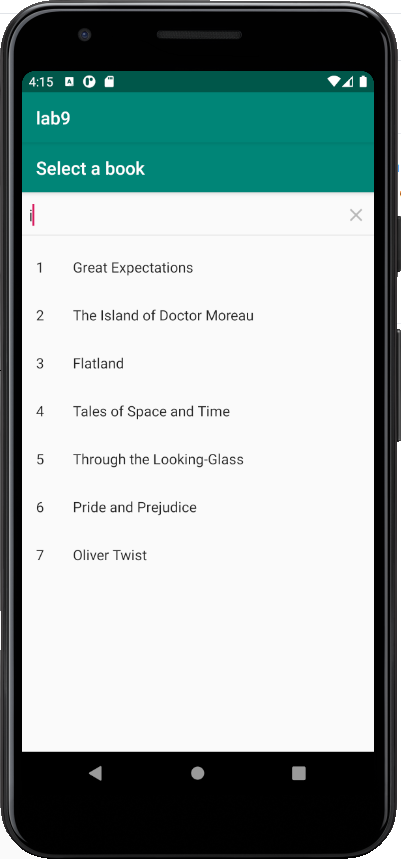
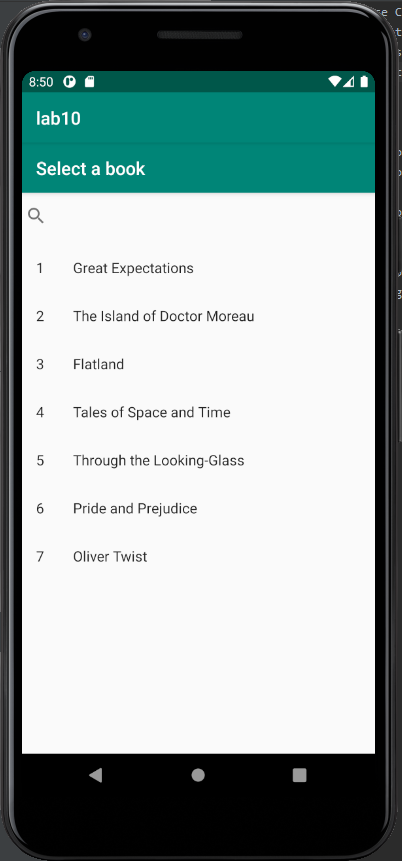
fixed cached file playback

diff --git a/app/src/main/java/edu/temple/lab10/ItemListActivity.java b/app/src/main/java/edu/temple/lab10/ItemListActivity.java
@@ -1,5 +1,6 @@
 package edu.temple.lab10;
 
+import android.app.Activity;
 import android.content.Context;
 import android.content.Intent;
 import android.os.Bundle;
@@ -59,6 +60,30 @@ public class ItemListActivity extends AppCompatActivity {
     int currentProgress;
     String cacheFilename = ".ProgressCache";
 
+    public int getPlaying() {
+        JSONObject cache = importProgressCache();
+        try {
+            return cache.getInt("nowPlaying");
+        } catch (JSONException e) {
+            e.printStackTrace();
+            return -1;
+        }
+    }
+
+    @Override
+    protected void onStart() {
+        super.onStart();
+        if(isPlaying()) {
+            //Launch intent to detail activity
+            Intent intent = new Intent(ItemListActivity.this, ItemDetailActivity.class);
+            //assert(getPlaying() == 1);
+            intent.putExtra(ControlFragment.ARG_ITEM_ID,String.valueOf(getPlaying()));
+            //intent.addFlags(Intent.FLAG_ACTIVITY_NEW_TASK);
+            //startActivity(intent);
+
+        }
+    }
+
     @Override
     protected void onCreate(Bundle savedInstanceState) {
         super.onCreate(savedInstanceState);
@@ -66,7 +91,6 @@ public class ItemListActivity extends AppCompatActivity {
 
         sv = findViewById(R.id.search);
 
-        Intent resume = getIntent();
 
         try {
             token = importProgressCache().getString("lastSearch");
@@ -79,6 +103,8 @@ public class ItemListActivity extends AppCompatActivity {
             sv.setActivated(true);
             searchAPI(token);
         }
+
+        searchAPI(token);
 
         Toolbar toolbar = (Toolbar) findViewById(R.id.toolbar);
         //setSupportActionBar(toolbar);
@@ -112,6 +138,18 @@ public class ItemListActivity extends AppCompatActivity {
 
         //searchAPI("");
 
+    }
+
+    public boolean isPlaying() {
+        JSONObject cache = importProgressCache();
+        boolean stopped = false;
+        try {
+            stopped = cache.getBoolean("isStopped");
+            return !stopped;
+        } catch (JSONException e) {
+            e.printStackTrace();
+            return false;
+        }
     }
 
     public JSONObject importProgressCache() {
@@ -191,6 +229,25 @@ public class ItemListActivity extends AppCompatActivity {
         recyclerView.setAdapter(new SimpleItemRecyclerViewAdapter(this, bookList, mTwoPane));
     }
 
+    public static void launchDetailFragment(View view, ItemListActivity activity,boolean mTwoPane) {
+        BookList.Book item = (BookList.Book) view.getTag();
+        if (mTwoPane) {
+            Bundle arguments = new Bundle();
+            arguments.putString(ControlFragment.ARG_ITEM_ID, String.valueOf(item.id));
+            ControlFragment fragment = new ControlFragment();
+            fragment.setArguments(arguments);
+            activity.getSupportFragmentManager().beginTransaction()
+                    .replace(R.id.item_detail_container, fragment)
+                    .commit();
+        } else {
+            Context context = view.getContext();
+            Intent intent = new Intent(context, ItemDetailActivity.class);
+            intent.putExtra(ControlFragment.ARG_ITEM_ID, item.id);
+
+            context.startActivity(intent);
+        }
+    }
+
     public static class SimpleItemRecyclerViewAdapter
             extends RecyclerView.Adapter<SimpleItemRecyclerViewAdapter.ViewHolder> {
 
@@ -200,22 +257,7 @@ public class ItemListActivity extends AppCompatActivity {
         private final View.OnClickListener mOnClickListener = new View.OnClickListener() {
             @Override
             public void onClick(View view) {
-                BookList.Book item = (BookList.Book) view.getTag();
-                if (mTwoPane) {
-                    Bundle arguments = new Bundle();
-                    arguments.putString(ControlFragment.ARG_ITEM_ID, String.valueOf(item.id));
-                    ControlFragment fragment = new ControlFragment();
-                    fragment.setArguments(arguments);
-                    mParentActivity.getSupportFragmentManager().beginTransaction()
-                            .replace(R.id.item_detail_container, fragment)
-                            .commit();
-                } else {
-                    Context context = view.getContext();
-                    Intent intent = new Intent(context, ItemDetailActivity.class);
-                    intent.putExtra(ControlFragment.ARG_ITEM_ID, item.id);
-
-                    context.startActivity(intent);
-                }
+                launchDetailFragment(view,mParentActivity,mTwoPane);
             }
         };
 

diff --git a/app/src/main/java/edu/temple/lab10/ControlFragment.java b/app/src/main/java/edu/temple/lab10/ControlFragment.java
@@ -253,7 +253,7 @@ public class ControlFragment extends Fragment {
             }
         }
         writeProgressCache();
-        Toast.makeText(getActivity(),progressCache.toString(), Toast.LENGTH_LONG).show();
+        //Toast.makeText(getActivity(),progressCache.toString(), Toast.LENGTH_LONG).show();
     }
 
     public int getProgress(String id) {
@@ -270,7 +270,7 @@ public class ControlFragment extends Fragment {
         try {
             progress = thisBook.getInt("progress");
         } catch (JSONException e) {
-            Toast.makeText(getActivity(),"Progress for book "+id+" not found", Toast.LENGTH_SHORT).show();
+            //Toast.makeText(getActivity(),"Progress for book "+id+" not found", Toast.LENGTH_SHORT).show();
         }
         return progress;
     }
@@ -312,6 +312,8 @@ public class ControlFragment extends Fragment {
             // Load the dummy content specified by the fragment
             // arguments. In a real-world scenario, use a Loader
             // to load content from a content provider.
+            assert(BookList.ITEM_MAP.size() > 0);
+            System.out.println(BookList.ITEM_MAP.size());
             mItem = BookList.ITEM_MAP.get(getArguments().getString(ARG_ITEM_ID));
             Activity activity = this.getActivity();
             CollapsingToolbarLayout appBarLayout = (CollapsingToolbarLayout) activity.findViewById(R.id.toolbar_layout);
@@ -320,8 +322,6 @@ public class ControlFragment extends Fragment {
             }
         }
     }
-
-
 
     @Override
     public View onCreateView(LayoutInflater inflater, ViewGroup container,
@@ -431,6 +431,7 @@ public class ControlFragment extends Fragment {
         playButton.setOnClickListener(new View.OnClickListener() {
             public void onClick(View v) {
                 String id = mItem.id;
+                setStopped(false);
                 nowPlayingID = Integer.valueOf(id);
                 setPlaying(Integer.valueOf(id));
 
@@ -440,7 +441,7 @@ public class ControlFragment extends Fragment {
                     Toast.makeText(getActivity(),"Streaming book", Toast.LENGTH_SHORT).show();
                 } else {
                     File file = new File(getContext().getFilesDir(), id+".mp3");
-                    player.play(file);
+                    player.play(file,(-10)+(int)(seeker.getProgress()*(mItem.duration/(float)100)));
                     //player.seekTo((int)(seeker.getProgress()*(mItem.duration/(float)100)));
                     //player.play(file);
                     Toast.makeText(getActivity(),"Playing book from file", Toast.LENGTH_SHORT).show();
@@ -458,6 +459,8 @@ public class ControlFragment extends Fragment {
             public void onClick(View v) {
                 player.stop();
                 seeker.setProgress(0);
+                setStopped(true);
+
             }
         });
 
@@ -467,6 +470,28 @@ public class ControlFragment extends Fragment {
         }
 
         return rootView;
+    }
+
+    public void setStopped(boolean stopped) {
+       importProgressCache();
+        try {
+            progressCache.put("isStopped",stopped);
+        } catch (JSONException e) {
+            e.printStackTrace();
+        }
+        writeProgressCache();
+    }
+
+    public boolean isPlaying() {
+        importProgressCache();
+        boolean stopped = false;
+        try {
+            stopped = progressCache.getBoolean("isStopped");
+            return stopped;
+        } catch (JSONException e) {
+            e.printStackTrace();
+            return false;
+        }
     }
 
     @Override

diff --git a/app/src/main/java/edu/temple/lab10/BookList.java b/app/src/main/java/edu/temple/lab10/BookList.java
@@ -24,7 +24,7 @@ public class BookList {
 
     public static final List<Book>        ITEMS = new ArrayList<Book>();
     public static final Map<String, Book> ITEM_MAP = new HashMap<String, Book>();
-
+    public static boolean created = false;
 
     private static final int SIZE = 25;
     JSONArray books;
@@ -56,11 +56,13 @@ public class BookList {
                 System.out.println("Error reading book json");
             }
         }
+        created=true;
         return bookArray;
     }
 
     public static ArrayList<Book> search(String token) {
         ArrayList<Book> books = new ArrayList<Book>();
+        if(token.equals("")) return (ArrayList<Book>) ITEMS;
         for(int i = 0;i<25;i++) {
             boolean matching = true;
             for(int j=0;j<token.length();j++) {

diff --git a/README.md b/README.md
@@ -1,15 +1,20 @@
-# Lab 9: Audiobook Service
-This project is built on what we did in Lab 8.  This is a library app that allows users to select from a shelf of books generated by a web API.
-Upon being queried, the API provides a JSONArray of book objects that contain information about the books such as the book titles, and links to the book covers.
-Upon selecting a book, the user can play the book using the AudiobookService library, and control playback by pausing, stopping, or seeking through the book.
+# Lab 10: Audiobook Service Continued
+This project is built on what we did in Lab 9.  This is a library app that allows users to select from a shelf of audiobooks generated by the Professor's web API.
+Upon selecting a book, the user can play or resume, the selected book.  This feature persists through app closing, as well as the listening progress for all books in the API.
+If the user plays a book that is not saved locally, the app automatically downloads the file and will play from local storage if the file already exists.
 
 
 ## Screenshots
 ![1](https://raw.githubusercontent.com/tuh37046/mobile-app-dev-assignment-8/lab9/l71.PNG) <br>
 *Above: User searches for books containing the letter "i""*
 
+![1](https://raw.githubusercontent.com/tuh37046/mobile-app-dev-assignment-8/lab9/l74.PNG) <br>
+*Above: User selects "Through The Looking Glass" for the first time and plays the book, streaming it*
+
 ![1](https://raw.githubusercontent.com/tuh37046/mobile-app-dev-assignment-8/lab9/l72.PNG) <br>
-*Above: User selects "Flatland""*
+*Above: User selects "Through The Looking Glass" and his or her listening progress is retained from the previous session*
 
 ![1](https://raw.githubusercontent.com/tuh37046/mobile-app-dev-assignment-8/lab9/l73.PNG) <br>
-*Above: User begins listening and the seekbar moves to reflect playback*
+*Above: User begins listening and the file is played locally, as it has been downloaded*
+
+
